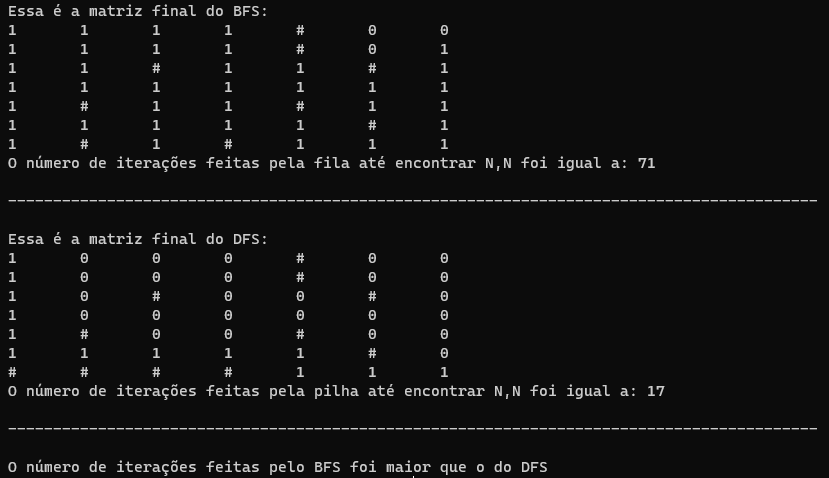
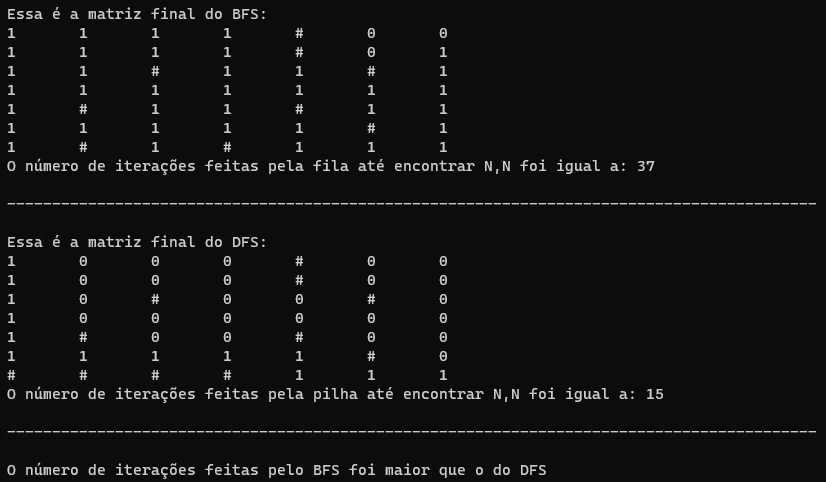
Atualização novamente
Atualizando como a contagem é feita e por causa disso a imagem (de saída). Além de cortar as outras imagens

diff --git a/src/main.c b/src/main.c
@@ -33,7 +33,7 @@ int main(){
 		FAndarDireita(matriz,&f, n, &numIteFil);
 		FAndarCima(matriz,&f, &numIteFil);
 		FAndarEsquerda(matriz,&f, &numIteFil);
-		Desenfileira(&f, &numIteFil);
+		Desenfileira(&f);
 
 		if(f.first == f.last || f.first->prox == NULL){
 			possivel = false;
@@ -70,7 +70,7 @@ int main(){
 		if (!pAndou)
 			pAndou = PAndarEsquerda(matriz, &p, &numItePil);
 		if (!pAndou){
-			Pop(&p, &iAux, &numItePil);
+			Pop(&p, &iAux);
 			matriz[iAux.linha][iAux.coluna] = 2;
 		}
 		if(p.base == p.top){

diff --git a/src/fila.c b/src/fila.c
@@ -14,7 +14,7 @@ void Enfileira(Fila *f, Item d, int *contagem){
 	*contagem = *contagem + 1;
 }
 
-void Desenfileira(Fila *f, int *contagem){
+void Desenfileira(Fila *f){
 	Block *aux;
 
 	if(f->first == f->last || f == NULL || f->first->prox == NULL){
@@ -25,7 +25,6 @@ void Desenfileira(Fila *f, int *contagem){
 	aux = f->first->prox;
 	f->first->prox = aux->prox;
 	free(aux);
-	*contagem = *contagem + 1;
 }
 
 

diff --git a/src/pilha.c b/src/pilha.c
@@ -14,7 +14,7 @@ void Push(Pilha *p, Item d, int *contagem){
 	*contagem = *contagem + 1;
 }
 
-void Pop(Pilha *p, Item *d, int *contagem){
+void Pop(Pilha *p, Item *d){
 	Block *aux;
 
 	if(p->base == p->top || p == NULL){
@@ -26,8 +26,6 @@ void Pop(Pilha *p, Item *d, int *contagem){
 	p->top = aux->prox;
 	*d = aux->data;
 	free(aux);
-	*contagem = *contagem + 1;
-
 }
 
 void PImprime(Pilha *p){

diff --git a/src/pilha.h b/src/pilha.h
@@ -12,7 +12,7 @@ struct Pilha{
 
 void FPVazia(Pilha *p);
 void Push(Pilha *p, Item d, int *contagem);
-void Pop(Pilha *p, Item *d, int *contagem);
+void Pop(Pilha *p, Item *d);
 void PImprime(Pilha *p);
 
 bool PAndarBaixo(int **matriz, Pilha *p, int n, int *contagem);

diff --git a/src/fila.h b/src/fila.h
@@ -12,7 +12,7 @@ struct Fila{
 
 void FFVazia(Fila *f);
 void Enfileira(Fila *f, Item d, int *contagem);
-void Desenfileira(Fila *f, int *contagem);
+void Desenfileira(Fila *f);
 void FImprime(Fila *f);
 
 void FAndarBaixo(int **matriz, Fila *f, int n, int *contagem);

diff --git a/README.md b/README.md
@@ -2,7 +2,7 @@
 
 ## Exercício
 
-<p align="justify">Atividade avaliativa sobre o caminhamento em labirinto. Nesta atividade, cada dupla de alunos deve entregar um trabalho contemplando BFS e DFS.</p>
+<p align="justify">Atividade avaliativa sobre o caminhamento em labirinto. Nesta atividade, cada dupla de alunos deve entregar um trabalho contemplando BFS e DFS. A dupla deste algoritmo é composta por <a href="https://github.com/ppinheirosiqueira">Pedro Pinheiro</a> e <a href="https://github.com/JoaoMEspindola">João Pedro Espíndola</a>.</p>
 
 <p align="justify">O labirinto em si é uma matriz quadrada de tamanho N e o objetivo é partir da coordenada inicial (0,0) até a coordenada final (N-1,N-1). Esta matriz possuirá barreiras, que são meramente coordenadas que não podem ser visitadas.</p>
 
@@ -39,7 +39,7 @@
 
 <p align="justify">Assim, a matriz de entrada em nosso teste é:</p>
 
-<p align="center"><img src="images/Matriz%20com%20Barreiras.jpeg" style="width:25%;"></p>
+<p align="center"><img src="images/Matriz%20com%20Barreiras.jpeg" style="width:40%;"></p>
 
 ## Programação
 <p align="justify">Para a construção dos nossos algoritmos, utilizou-se como base os códigos disponibilizados pelo professor, de <a href="https://github.com/mpiress/dynamic_queue">Fila dinâmica</a> para o BFS, e, <a href="https://github.com/mpiress/dynamic_stack">Pilha dinâmica</a> para o DFS.</p>
@@ -59,7 +59,7 @@
 
 <p align="justify">Segue abaixo uma demonstração de como nosso algoritmo de BFS se comporta dada a entrada colocada anteriormente, os vértices em preto são os obstáculos, os em lilás são as posições atuais, os verdes as futuras posições e os vermelhos o caminho percorrido:</p>
 
-<p align="center"><IMG SRC="images/BFS.gif" style="width:25%;"></p>
+<p align="center"><img src="images/BFS.gif" width="50%"></p>
 
 ### <strong> DFS </strong>
 <p align="justify">Para a programação do DFS, houveram algumas mudanças a partir do algoritmo BFS. Agora, a função apresenta a seguinte estrutura:</p>
@@ -72,7 +72,7 @@
 
 <p align="justify">Segue abaixo uma demonstração de como nosso algoritmo de DFS se comporta dada a entrada colocada anteriormente, os vértices em preto são os obstáculos, os em lilás são as posições visitadas, os vermelhos as posições que foram transformadas em obstáculo e o verde a posição final:</p>
 
-<p align="center"><IMG SRC="images/DFS.gif" style="width:25%;"></p>
+<p align="center"><IMG SRC="images/DFS.gif"  width="50%"></p>
 
 ## Saída
 
@@ -86,7 +86,7 @@
 
 <p align="justify">Com a entrada exemplificada, a saída será possível em ambos os casos, sendo neste caso específico o DFS muito mais eficiente do que o BFS, como é possível ver pela saída final:</p>
 
-<p align="center"><img src="https://github.com/ppinheirosiqueira/BFS-DFS/blob/main/images/Saida.png" style="width:50%;"></p>
+<p align="center"><img src="images/Saida.png" style="width:50%;"></p>
 
 # Compilação e Execução
 
@@ -99,4 +99,4 @@
 |  `make`                | Executa a compilação do programa utilizando o gcc, e o resultado vai para a pasta build           |
 |  `make run`            | Executa o programa da pasta build após a realização da compilação                                 |
 
-<p align="justify">É recomendado fazer um `make clean` antes de um `make`.</p>
+<p align="justify">É recomendado fazer um <code>make clean</code> antes de um <code>make</code>.</p>
